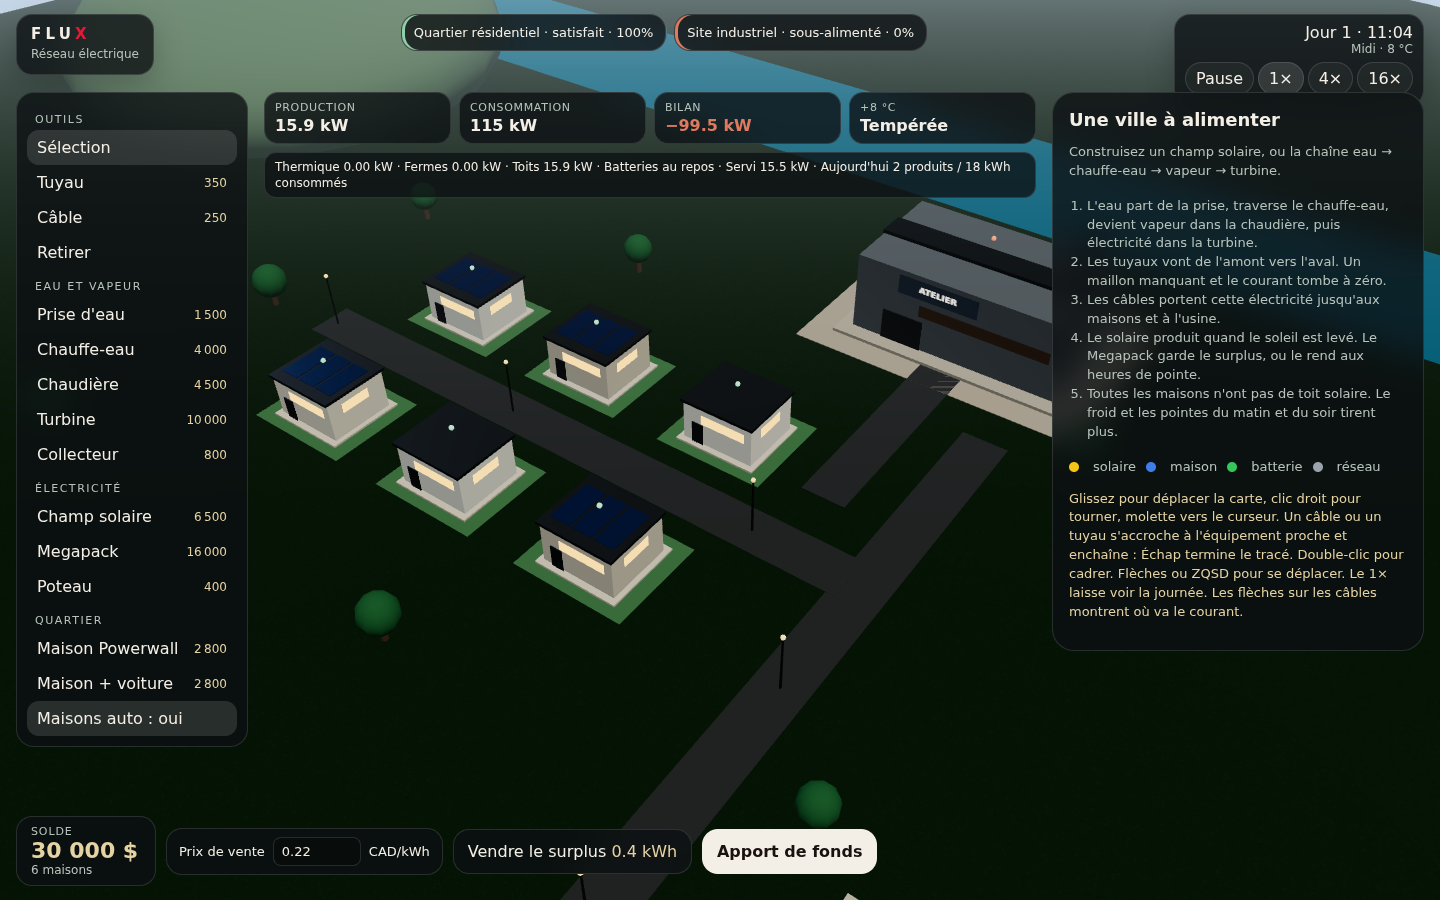
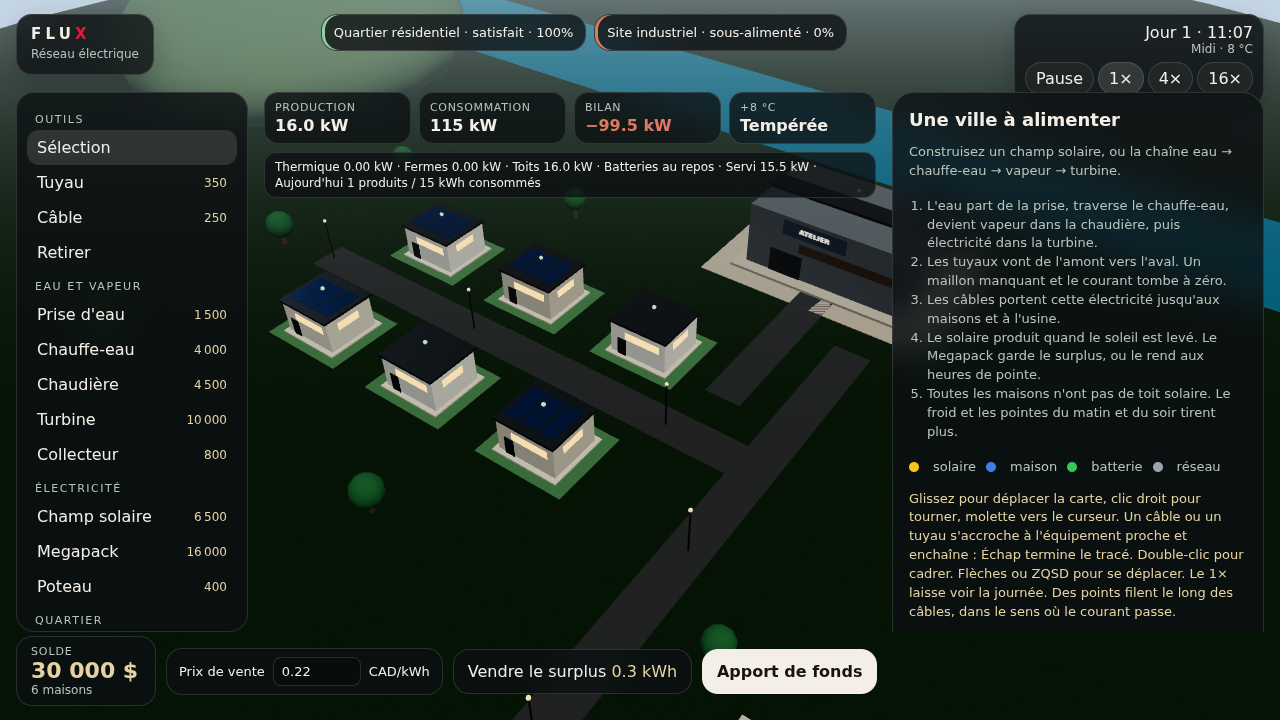
Fait filer des points dans les câbles, dans le sens du courant.
Les câbles restent bidirectionnels. Les points montrent le courant qui entre dans une maison, qui charge un Megapack, ou qui sort d'une maison vers un poteau.

diff --git a/js/render.js b/js/render.js
@@ -340,6 +340,13 @@
     return group;
   }
 
+  function beadCount(len) {
+    var n = Math.round((len || 8) / 3.2);
+    if (n < 3) n = 3;
+    if (n > 10) n = 10;
+    return n;
+  }
+
   function pipeColor(fromType) {
     if (fromType === "intake") return 0x2b7ea8;
     if (fromType === "heater") return 0xd4652f;
@@ -382,14 +389,7 @@
     mesh.add(line);
     mesh.userData.line = line;
     mesh.userData.lineColor = cable ? 0xd7f1ff : color;
-    var arrow = new THREE.Mesh(
-      new THREE.ConeGeometry(0.34, 1.15, 8),
-      new THREE.MeshBasicMaterial({ color: cable ? 0xf4fbff : color })
-    );
-    arrow.name = "flow-arrow";
-    arrow.visible = false;
-    mesh.add(arrow);
-    mesh.userData.arrow = arrow;
+    mesh.userData.length = curve.getLength();
     var pick = new THREE.Mesh(
       new THREE.TubeGeometry(curve, 12, cable ? 0.72 : 0.46, 5, false),
       new THREE.MeshBasicMaterial({ transparent: true, opacity: 0, depthWrite: false, colorWrite: false })
@@ -489,7 +489,6 @@
     var night = new THREE.Color(0x10182a);
     var day = new THREE.Color(0xc5d6e6);
     var coldSky = new THREE.Color(0x8ea6bf);
-    var upAxis = new THREE.Vector3(0, 1, 0);
     var bg = night.clone();
     scene.background = bg;
     scene.fog = new THREE.Fog(bg.clone(), 70, 210);
@@ -518,9 +517,9 @@
     var nodePick = [];
     var linkPick = [];
     var couriers = [];
-    var courierGeo = new THREE.SphereGeometry(0.12, 8, 8);
-    var courierMatCable = new THREE.MeshBasicMaterial({ color: 0xd7f1ff });
-    var courierMatPipe = new THREE.MeshBasicMaterial({ color: 0xffe1c2 });
+    var courierGeo = new THREE.SphereGeometry(0.46, 10, 8);
+    var courierMatCable = new THREE.MeshBasicMaterial({ color: 0xf7fbff, fog: false, toneMapped: false });
+    var courierMatPipe = new THREE.MeshBasicMaterial({ color: 0xffe1c2, fog: false, toneMapped: false });
 
     var ring = new THREE.Mesh(
       new THREE.TorusGeometry(3.4, 0.07, 8, 40),
@@ -764,22 +763,6 @@
           mesh.userData.line.material.color.setHex(chosen ? 0xe3b341 : (on ? 0xffffff : mesh.userData.lineColor));
         }
         mesh.userData.dir = edge.dir || 0;
-        var arrow = mesh.userData.arrow;
-        if (arrow && mesh.userData.curve) {
-          var showArrow = on && edge.dir;
-          arrow.visible = !!showArrow;
-          if (showArrow) {
-            var travelU = edge.dir < 0 ? 0.38 : 0.62;
-            var curve = mesh.userData.curve;
-            var tan = curve.getTangent(travelU);
-            if (edge.dir < 0) tan.negate();
-            if (tan.lengthSq() > 1e-8) {
-              arrow.position.copy(curve.getPoint(travelU));
-              arrow.quaternion.setFromUnitVectors(upAxis, tan.normalize());
-            }
-            arrow.material.color.setHex(chosen ? 0xe3b341 : (edge.kind === "cable" ? 0xf4fbff : 0xffe1c2));
-          }
-        }
       }
       Array.from(linkMeshes.keys()).forEach(function (id) {
         if (!linkAlive.has(id)) dropMesh(linkMeshes, id, linkPick);
@@ -796,30 +779,30 @@
         pendingRing.position.set(pend.x, 0.14, pend.z);
       } else pendingRing.visible = false;
 
-      var moving = [];
+      var jobs = [];
       linkMeshes.forEach(function (mesh, id) {
         var edge = null;
         for (var k = 0; k < state.links.length; k++) if (state.links[k].id === id) edge = state.links[k];
-        if (edge && edge.flow > 0.2) moving.push(mesh);
+        if (!edge || (edge.flow || 0) <= 0.2 || !edge.dir || !mesh.userData.curve) return;
+        var count = beadCount(mesh.userData.length);
+        var pipe = edge.kind === "pipe";
+        for (var b = 0; b < count; b++) jobs.push({ host: mesh, phase: b / count, pipe: pipe });
       });
-      var shown = moving.slice(0, 16);
-      var want = shown.length * 2;
-      while (couriers.length < want) {
+      if (jobs.length > 420) jobs.length = 420;
+      while (couriers.length < jobs.length) {
         var dot = new THREE.Mesh(courierGeo, courierMatCable);
         scene.add(dot);
         couriers.push(dot);
       }
-      while (couriers.length > want) {
+      while (couriers.length > jobs.length) {
         var extra = couriers.pop();
         scene.remove(extra);
       }
       for (i = 0; i < couriers.length; i++) {
-        var host = shown[Math.floor(i / 2)];
-        couriers[i].userData.host = host;
-        couriers[i].userData.slot = i % 2;
-        couriers[i].material = host.userData.linkId && state.links.some(function (e) {
-          return e.id === host.userData.linkId && e.kind === "pipe" && e.flow > 0;
-        }) ? courierMatPipe : courierMatCable;
+        var job = jobs[i];
+        couriers[i].userData.host = job.host;
+        couriers[i].userData.phase = job.phase;
+        couriers[i].material = job.pipe ? courierMatPipe : courierMatCable;
         couriers[i].visible = true;
       }
     }
@@ -832,13 +815,24 @@
         if (rotor && node && (node.kw || 0) > 0.5) rotor.rotateY(dt * Math.min(8, node.kw * 0.02));
       });
       var t = (game.clockMs || 0) / 1000;
+      var mote = rig.dist / 78;
+      if (mote < 0.75) mote = 0.75;
+      if (mote > 1.2) mote = 1.2;
+      var speed = 4.8;
       for (var i = 0; i < couriers.length; i++) {
         var host = couriers[i].userData.host;
-        if (!host || !host.userData.curve) continue;
-        var dir = host.userData.dir < 0 ? -1 : 1;
-        var u = (t * 0.45 + (couriers[i].userData.slot || 0) * 0.5) % 1;
-        if (dir < 0) u = 1 - u;
+        if (!host || !host.userData.curve || !host.userData.dir) {
+          couriers[i].visible = false;
+          continue;
+        }
+        var len = host.userData.length || 1;
+        if (len < 0.5) len = 0.5;
+        var u = (t * speed / len + (couriers[i].userData.phase || 0)) % 1;
+        if (u < 0) u += 1;
+        if (host.userData.dir < 0) u = 1 - u;
         couriers[i].position.copy(host.userData.curve.getPoint(u));
+        couriers[i].scale.setScalar(mote);
+        couriers[i].visible = true;
       }
       var sun = global.GridSim.sunFactor(state.hour);
       bg.copy(night).lerp(day, Math.min(1, sun * 1.05 + 0.08));
@@ -1241,24 +1235,30 @@
       lookLink: function (id) {
         var mesh = linkMeshes.get(id);
         if (!mesh) return null;
-        var arrow = mesh.userData.arrow;
-        var tip = arrow ? new THREE.Vector3(0, 1, 0).applyQuaternion(arrow.quaternion) : null;
-        return {
-          dir: mesh.userData.dir || 0,
-          arrow: !!(arrow && arrow.visible),
-          tip: tip ? { x: tip.x, y: tip.y, z: tip.z } : null
-        };
+        var dots = 0;
+        var arrows = 0;
+        mesh.traverse(function (child) {
+          if (child.name === "flow-arrow") arrows += 1;
+        });
+        for (var i = 0; i < couriers.length; i++) {
+          var host = couriers[i].userData.host;
+          if (host && host.userData.linkId === id && couriers[i].visible) dots += 1;
+        }
+        return { dir: mesh.userData.dir || 0, dots: dots, arrows: arrows };
       },
       lookCouriers: function () {
         var out = [];
         for (var i = 0; i < couriers.length; i++) {
           var c = couriers[i];
           if (!c.visible) continue;
+          var host = c.userData.host;
           out.push({
             x: c.position.x,
             y: c.position.y,
             z: c.position.z,
-            dir: c.userData.host ? (c.userData.host.userData.dir || 0) : 0
+            dir: host ? (host.userData.dir || 0) : 0,
+            linkId: host ? (host.userData.linkId || 0) : 0,
+            phase: c.userData.phase || 0
           });
         }
         return out;

diff --git a/test/run.js b/test/run.js
@@ -326,6 +326,32 @@ function fresh(extra) {
   GridSim.tick(backward, 0.25);
   assert(backward.links[0].dir === -1, "a reversed cable points back toward the source, dir " + backward.links[0].dir);
 
+  var feed = fresh({ hour: 12 });
+  var roof = must(GridSim.place(feed, { type: "house", roofKw: 12, baseKw: 0.4, capacity: 0, x: 0, z: 0 }), "export house");
+  var pole = must(GridSim.place(feed, { type: "pole", x: 12, z: 0 }), "export pole");
+  var pack = must(GridSim.place(feed, { type: "megapack", x: 24, z: 0, soc: 0 }), "export pack");
+  var toPole = must(GridSim.link(feed, { kind: "cable", from: roof.id, to: pole.id }), "house to pole");
+  var toPack = must(GridSim.link(feed, { kind: "cable", from: pole.id, to: pack.id }), "pole to pack");
+  GridSim.tick(feed, 0.25);
+  var hop1 = null;
+  var hop2 = null;
+  feed.links.forEach(function (edge) {
+    if (edge.id === toPole.id) hop1 = edge;
+    if (edge.id === toPack.id) hop2 = edge;
+  });
+  assert(hop1.flow > 0.05 && hop1.dir === 1, "a house feeding a pole sends current outward, dir " + hop1.dir + " flow " + hop1.flow);
+  assert(hop2.flow > 0.05 && hop2.dir === 1, "that current continues into the megapack, dir " + hop2.dir + " flow " + hop2.flow);
+  assert(GridSim.node(feed, pack.id).chargeKw > 0.05, "the megapack is actually charging from the house");
+
+  var night = fresh({ hour: 0 });
+  var battery = must(GridSim.place(night, { type: "megapack", x: 0, z: 0, soc: 400 }), "night pack");
+  var nightHome = must(GridSim.place(night, { type: "house", roofKw: 0, capacity: 0, x: 16, z: 0 }), "night house");
+  must(GridSim.link(night, { kind: "cable", from: nightHome.id, to: battery.id }), "night cable stored toward the house");
+  GridSim.tick(night, 0.25);
+  var back = night.links[0];
+  assert(back.flow > 0.05 && back.dir === -1, "megapack discharge runs toward the house, dir " + back.dir + " flow " + back.flow);
+  assert(GridSim.node(night, nightHome.id).flow.satisfied, "the house is fed by the megapack");
+
   var held = fresh({ hour: 12 });
   var sun = must(GridSim.place(held, { type: "solar", x: 0, z: 0 }), "pack solar");
   var pack = must(GridSim.place(held, { type: "megapack", x: 8, z: 0, soc: 0 }), "pack controls");

diff --git a/js/ui.js b/js/ui.js
@@ -149,17 +149,20 @@
       upstream = toName;
       downstream = fromName;
     }
-    $("link-ends").textContent = upstream + " → " + downstream;
     var flow = edge.flow || 0;
+    var quiet = flow <= 0.05 || (edge.kind === "cable" && !edge.dir);
     $("link-flow").textContent = flow > 0.05 ? kw(flow) + " en transit" : "Pas de flux pour l'instant";
-    if (flow <= 0.05) {
+    if (quiet) {
+      $("link-ends").textContent = fromName + " · " + toName;
       $("link-note").textContent = edge.kind === "pipe"
         ? "Aucun fluide ne circule dans ce tuyau."
         : "Aucun courant ne circule dans ce câble.";
     } else if (edge.kind === "pipe") {
+      $("link-ends").textContent = fromName + " vers " + toName;
       $("link-note").textContent = "Le fluide va de " + fromName + " vers " + toName + ".";
     } else {
-      $("link-note").textContent = "Le courant va de " + upstream + " vers " + downstream + ".";
+      $("link-ends").textContent = upstream + " vers " + downstream;
+      $("link-note").textContent = "Les points filent de " + upstream + " vers " + downstream + ".";
     }
   }
 

diff --git a/js/sim.js b/js/sim.js
@@ -924,13 +924,19 @@
         }
       }
 
-      var throughput = Math.min(supply, demand);
+      var moved = Math.min(supply, demand);
+      if (supply + 1e-9 >= demand) {
+        for (var pc = 0; pc < packs.length; pc++) moved += packs[pc]._charge || 0;
+        for (var gc = 0; gc < loads.length; gc++) moved += loads[gc].channels.gridToBattery || 0;
+      } else {
+        for (var pd = 0; pd < packs.length; pd++) moved += packs[pd]._discharge || 0;
+      }
       for (var li = 0; li < state.links.length; li++) {
         var edge = state.links[li];
         if (edge.kind !== "cable") continue;
         if (members.some(function (n) { return n.id === edge.from; }) &&
             members.some(function (n) { return n.id === edge.to; })) {
-          edge.flow = Math.max(edge.flow, throughput > 0 ? throughput : (external > 0 ? external : 0));
+          if (moved > edge.flow) edge.flow = moved;
         }
       }
       orientCables(state, members, prepById);

diff --git a/index.html b/index.html
@@ -78,7 +78,7 @@
           <span class="swatch battery"></span> batterie
           <span class="swatch grid"></span> réseau
         </p>
-        <p class="hint">Glissez pour déplacer la carte, clic droit pour tourner, molette vers le curseur. Un câble ou un tuyau s'accroche à l'équipement proche et enchaîne : Échap termine le tracé. Double-clic pour cadrer. Flèches ou ZQSD pour se déplacer. Le 1× laisse voir la journée. Les flèches sur les câbles montrent où va le courant.</p>
+        <p class="hint">Glissez pour déplacer la carte, clic droit pour tourner, molette vers le curseur. Un câble ou un tuyau s'accroche à l'équipement proche et enchaîne : Échap termine le tracé. Double-clic pour cadrer. Flèches ou ZQSD pour se déplacer. Le 1× laisse voir la journée. Des points filent le long des câbles, dans le sens où le courant passe.</p>
       </article>
 
       <article id="flow-card" class="card flow mode-battery" hidden>

diff --git a/README.md b/README.md
@@ -16,7 +16,7 @@ La ville ne s'arrête pas si elle a faim. Elle le montre.
 
 | Produire | Conduire | Tenir |
 | --- | --- | --- |
-| Chaîne thermique, champ solaire, toits qui n'équipent pas toutes les maisons. | Tuyaux d'amont en aval. Câbles dont la flèche dit où part le courant. | Quartier et usine satisfaits, ou non. Le froid et les pointes se voient dans les chiffres. |
+| Chaîne thermique, champ solaire, toits qui n'équipent pas toutes les maisons. | Tuyaux d'amont en aval. Des points filent sur les câbles, dans le sens du courant. | Quartier et usine satisfaits, ou non. Le froid et les pointes se voient dans les chiffres. |
 
 ## La journée
 
